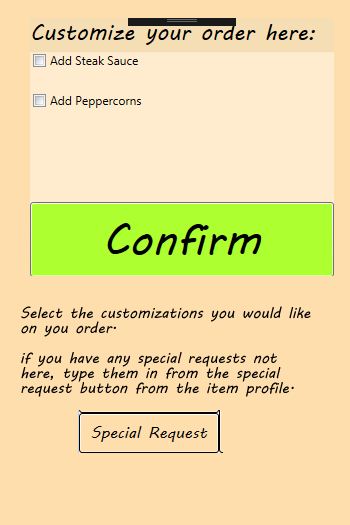
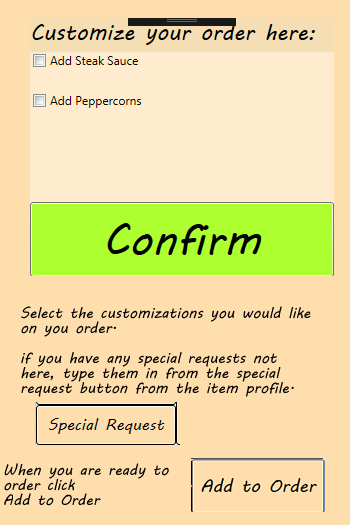
Help updates

Changed region(s): [[0.0857, 0.7619, 0.9429, 0.9752], [0.0, 0.8838, 0.1143, 0.9752]]

diff --git a/Waitless/Images/Help6.xaml b/Waitless/Images/Help6.xaml
@@ -1,0 +1,14 @@
+<Page x:Class="Waitless.Images.Help6"
+      xmlns="http://schemas.microsoft.com/winfx/2006/xaml/presentation"
+      xmlns:x="http://schemas.microsoft.com/winfx/2006/xaml"
+      xmlns:mc="http://schemas.openxmlformats.org/markup-compatibility/2006" 
+      xmlns:d="http://schemas.microsoft.com/expression/blend/2008" 
+      xmlns:local="clr-namespace:Waitless.Images"
+      mc:Ignorable="d" 
+      d:DesignHeight="300" d:DesignWidth="300"
+      Title="Help6">
+
+    <Grid>
+        <Image Source="Help6.png" />
+    </Grid>
+</Page>

diff --git a/Waitless/HelpViewer.xaml.cs b/Waitless/HelpViewer.xaml.cs
@@ -20,7 +20,7 @@ namespace Waitless
     public partial class HelpViewer : Window
     {
         private Uri[] slides;
-        private int size = 4;
+        private int size = 5;
         private int position = 0;
         public HelpViewer()
         {
@@ -31,6 +31,7 @@ namespace Waitless
             slides[2] = new Uri("Images/Help3.xaml", UriKind.Relative);
             slides[3] = new Uri("Images/Help4.xaml", UriKind.Relative);
             slides[4] = new Uri("Images/Help5.xaml", UriKind.Relative);
+            slides[5] = new Uri("Images/Help6.xaml", UriKind.Relative);
             HelpImage.NavigationService.Navigate(slides[0]);
          
         }

diff --git a/Waitless/Images/Help6.xaml.cs b/Waitless/Images/Help6.xaml.cs
@@ -1,0 +1,28 @@
+using System;
+using System.Collections.Generic;
+using System.Linq;
+using System.Text;
+using System.Threading.Tasks;
+using System.Windows;
+using System.Windows.Controls;
+using System.Windows.Data;
+using System.Windows.Documents;
+using System.Windows.Input;
+using System.Windows.Media;
+using System.Windows.Media.Imaging;
+using System.Windows.Navigation;
+using System.Windows.Shapes;
+
+namespace Waitless.Images
+{
+    /// <summary>
+    /// Interaction logic for Help6.xaml
+    /// </summary>
+    public partial class Help6 : Page
+    {
+        public Help6()
+        {
+            InitializeComponent();
+        }
+    }
+}
